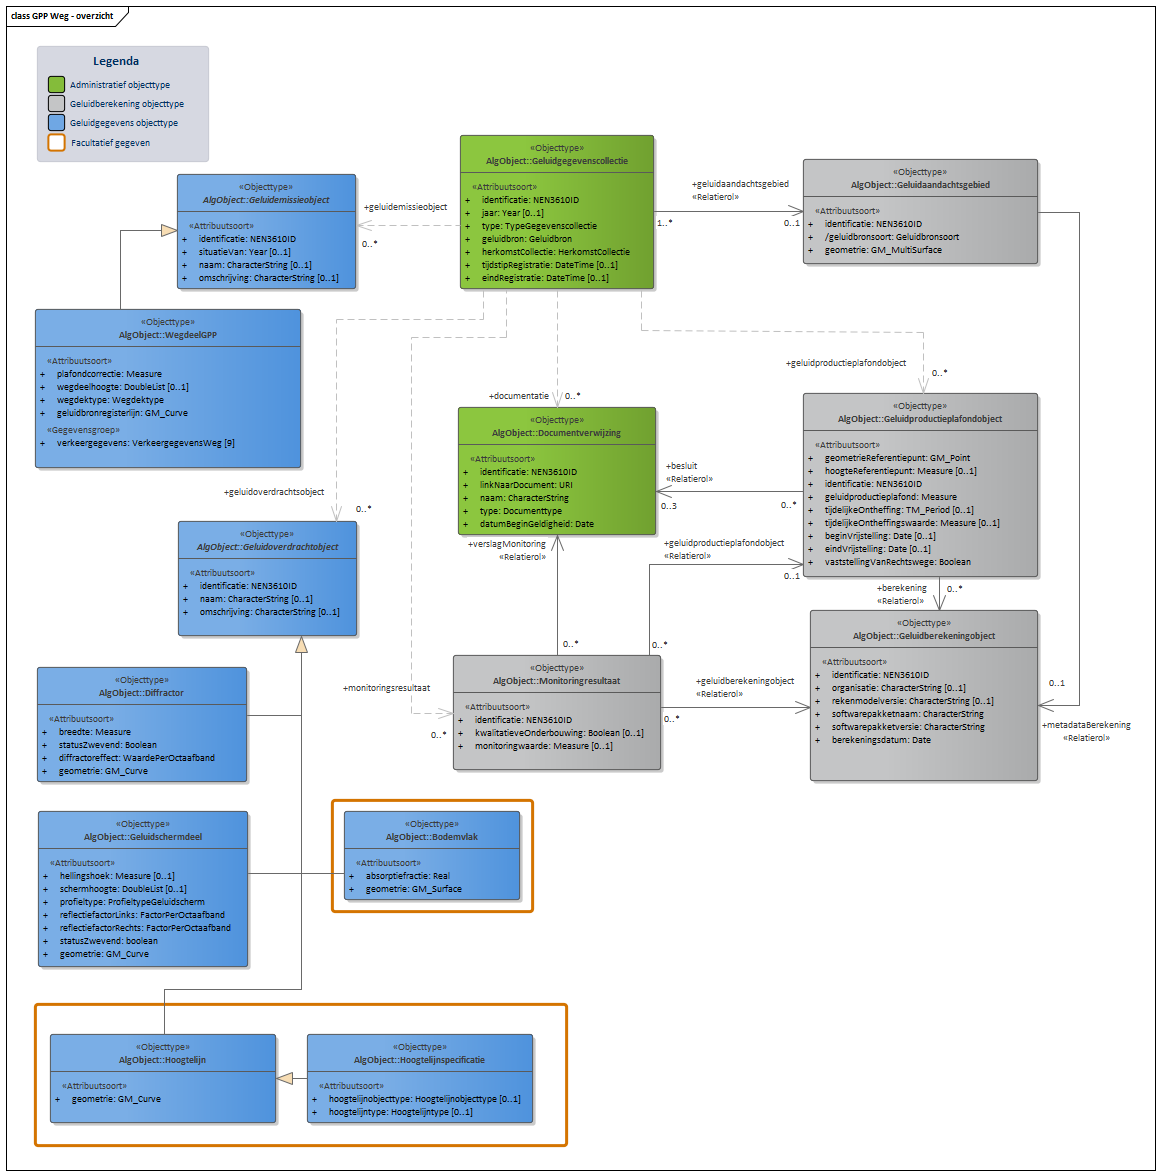
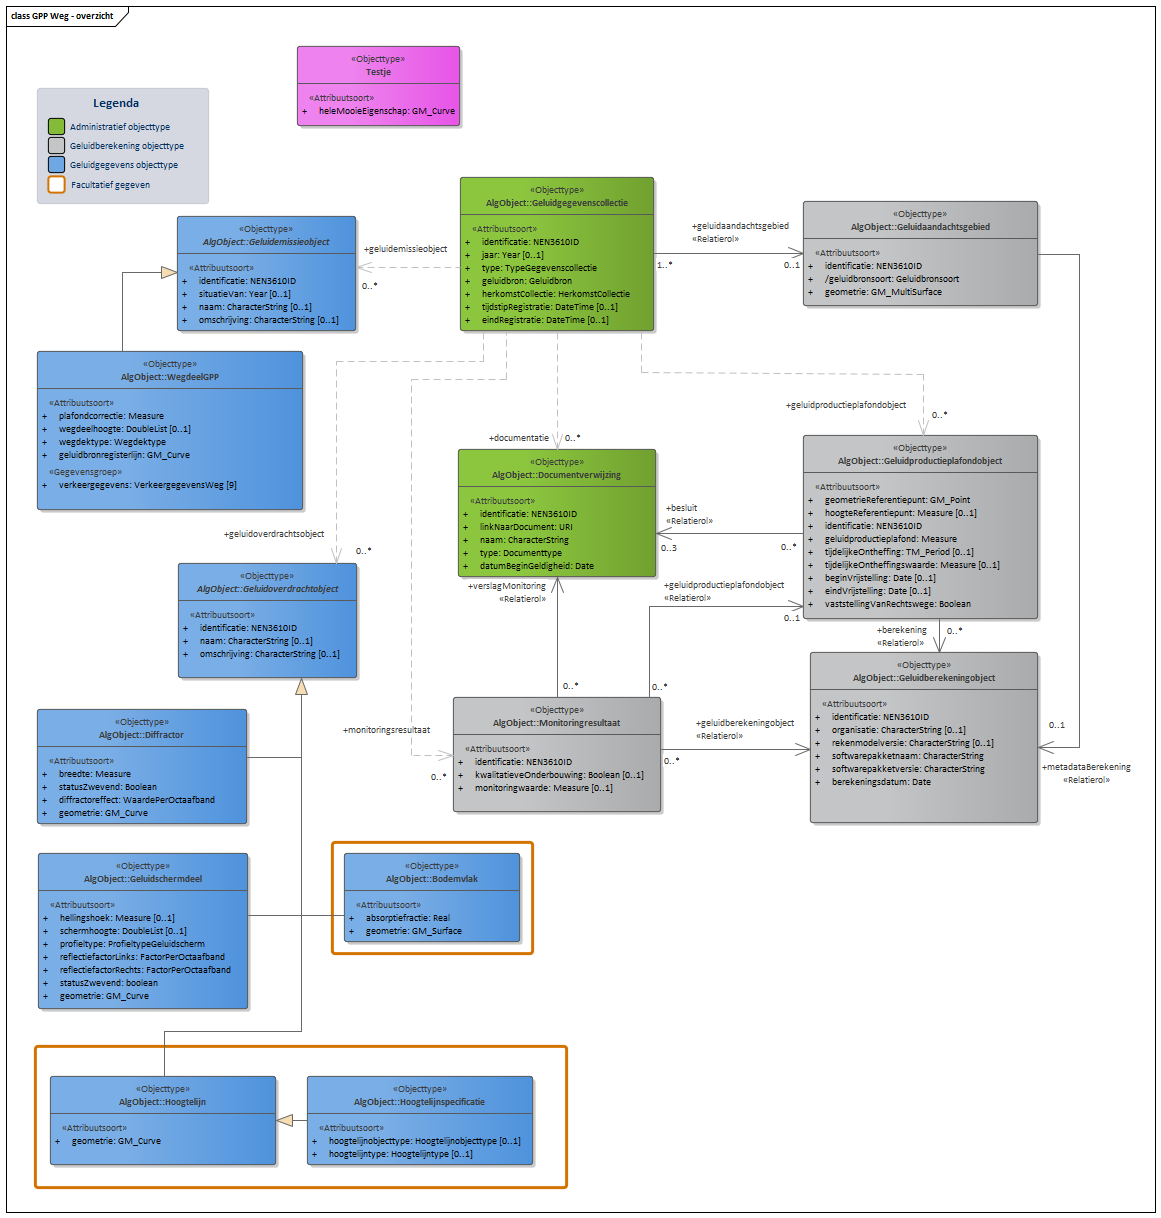
MIMLM-InformatiemodelGeluid-1.0-0-20200421-20210215-173521

diff --git a/data/img-cat.respec.html b/data/img-cat.respec.html
@@ -1,7 +1,7 @@
 
 <section id="cat" class="normative">
    <h2>Gegevensdefinitie</h2>
-   <!--MIMLM-InformatiemodelGeluid-1.0-0-20200421-20201015-155322 imvertor 1.61.3-->
+   <!--MIMLM-InformatiemodelGeluid-1.0-0-20200421-20210215-173521 imvertor 1.61.3-->
    <section id="EAID_66AE8FA2_74FC_4d4d_B2B2_249C8D6A651F">
       <h3>Diagram   Basismodel - overzicht</h3>
       <div class="imageinfo overview"><img src="data/Images/EAID_66AE8FA2_74FC_4d4d_B2B2_249C8D6A651F.png" usemap="#imagemap-EAID_66AE8FA2_74FC_4d4d_B2B2_249C8D6A651F" alt="Diagram Het Basismodel vormt de samenhang tussen alle domeinen van het IMGeluid. Alle objecttypen en relaties uit het IMGeluid komen samen in een Geluidgegevenscollectie.&#xA;Binnen het IMGeluid worden geluidbrongegevens die gebruikt worden voor GPP en BGE berekeningen, gemodelleerd als een Geluidemissie of Geluidoverdrachtobject. De resultaten van GPP of BGE berekeningen worden opgeslagen in een Geluidgegevenscollectie. De onderliggende juridische vastleggingen, vaststellingen, of monitoringsverslagen van deze omgevings- of monitoringswaarden, worden ook opgeslagen in dezelfde Geluidgegevenscollectie.&#xA;Per geluidbron per toepassing kan er een Geluidgegevenscollectie bestaan. Deze kan geassocieerd worden met maximaal 1 Geluidaandachtsgebied. Wanneer geluidgegevens met betrekking tot cumulatieberekeningen worden aangeleverd, bevat een Geluidgegevenscollectie geen Geluidaandachtsgebied.&#xA;&#xA;&#xA;Klik met de rechtermuisknop op het diagram om de afbeelding op volledige grote in een nieuw tabblad te openen."><map name="imagemap-EAID_66AE8FA2_74FC_4d4d_B2B2_249C8D6A651F"><area shape="rect" alt="Monitoringresultaat" coords="525,638,740,760" href="#graph_EAID_BA00B77B_D408_4590_8185_CE59E5838F1E"><area shape="rect" alt="Basisgeluidemissieobject" coords="75,638,341,760" href="#graph_EAID_9AD15457_4880_42e5_8C72_4E5EFAC91B15"><area shape="rect" alt="Geluidproductieplafondobject" coords="908,638,1166,821" href="#graph_EAID_237408F8_8CE9_4828_B8FB_1A5B8C917622"><area shape="rect" alt="Geluidberekeningobject" coords="517,873,772,1044" href="#graph_EAID_97ED59FE_9FCA_49a6_8F07_214E48000B76"><area shape="rect" alt="Documentverwijzing" coords="525,421,739,549" href="#graph_EAID_7E137496_1028_4af5_9367_569358A2167B"><area shape="rect" alt="Geluidaandachtsgebied" coords="947,194,1127,296" href="#graph_EAID_B06128AC_518C_4e26_88E5_14ED5A050A19"><area shape="rect" alt="Geluidgegevenscollectie" coords="476,168,788,322" href="#graph_EAID_313C5AF9_49B8_4860_9E65_DE7C70084864"><area shape="rect" alt="Geluidemissieobject" coords="82,179,334,297" href="#graph_EAID_361C96BA_A638_494e_80BA_590ED481A81B"><area shape="rect" alt="Geluidoverdrachtobject" coords="82,366,334,484" href="#graph_EAID_2FEA326B_B7E7_48a4_B50F_00CCB2694677"></map><p><b>Basismodel - overzicht</b> — Het Basismodel vormt de samenhang tussen alle domeinen van het IMGeluid. Alle objecttypen
@@ -47,7 +47,7 @@
    </section>
    <section id="EAID_82B8575E_C02C_4e96_9E78_ABCC68855A02">
       <h3>Diagram   GPP Weg - overzicht</h3>
-      <div class="imageinfo overview"><img src="data/Images/EAID_82B8575E_C02C_4e96_9E78_ABCC68855A02.png" usemap="#imagemap-EAID_82B8575E_C02C_4e96_9E78_ABCC68855A02" alt="Diagram In domeinmodel GPP Weg staan objecttypen en relaties die relevant zijn voor geluidbronbeheersing van wegen waarvoor de geluidproductieplafond regeling geldt; en die nodig zijn voor akoestisch onderzoek binnen het geluidaandachtsgebied van wegen.&#xA;Geluidbronnen binnen GPP Weg worden opgeslagen als lijnbron conform het object WegdeelGPP. &#xA;Voor ieder Geluidproductieplafondobject langs een Provinciale weg of Rijksweg, valt te herleiden op welke geluidberekening de geluidproductieplafondwaarde gebaseerd is. Deze informatie wordt bijgehouden conform het Geluidberekeningobject.&#xA;Ook valt er te herleiden welke geluidbrongegevens gebruikt zijn bij een geluidberekening. Deze geluidbrongegevens zijn samen met het Geluidberekeningsobject terug te vinden in een  Geluidgegevenscollectie in de vorm van gespecialiseerde geluidemissie- en geluidoverdrachtsobjecten.&#xA;&#xA;Klik met de rechtermuisknop op het diagram om de afbeelding op volledige grote in een nieuw tabblad te openen"><map name="imagemap-EAID_82B8575E_C02C_4e96_9E78_ABCC68855A02"><area shape="rect" alt="Hoogtelijnspecificatie" coords="307,1034,533,1123" href="#graph_EAID_B01AA864_A542_404a_908D_E23998395B87"><area shape="rect" alt="Monitoringresultaat" coords="453,655,661,770" href="#graph_EAID_BA00B77B_D408_4590_8185_CE59E5838F1E"><area shape="rect" alt="Geluidgegevenscollectie" coords="460,135,654,289" href="#graph_EAID_313C5AF9_49B8_4860_9E65_DE7C70084864"><area shape="rect" alt="Geluidemissieobject" coords="177,174,356,289" href="#graph_EAID_361C96BA_A638_494e_80BA_590ED481A81B"><area shape="rect" alt="Geluidoverdrachtobject" coords="178,521,357,636" href="#graph_EAID_2FEA326B_B7E7_48a4_B50F_00CCB2694677"><area shape="rect" alt="Diffractor" coords="37,667,247,782" href="#graph_EAID_1B63DB45_6061_48e5_8890_AC0CA30E1454"><area shape="rect" alt="WegdeelGPP" coords="35,309,301,468" href="#graph_EAID_955703EE_254E_4d46_89C5_37D46AEADA8B"><area shape="rect" alt="Bodemvlak" coords="344,811,520,900" href="#graph_EAID_902B9218_E1B1_4512_B52A_F8DADD1DB990"><area shape="rect" alt="Geluidschermdeel" coords="38,811,248,967" href="#graph_EAID_BC342A75_1053_4086_9B42_321F22E3FA82"><area shape="rect" alt="Hoogtelijn" coords="50,1034,276,1123" href="#graph_EAID_CE3003A0_5F16_4630_B2A6_519B33439135"><area shape="rect" alt="Geluidberekeningobject" coords="810,610,1038,781" href="#graph_EAID_97ED59FE_9FCA_49a6_8F07_214E48000B76"><area shape="rect" alt="Documentverwijzing" coords="458,407,656,535" href="#graph_EAID_7E137496_1028_4af5_9367_569358A2167B"><area shape="rect" alt="Geluidaandachtsgebied" coords="803,159,1038,264" href="#graph_EAID_B06128AC_518C_4e26_88E5_14ED5A050A19"><area shape="rect" alt="Geluidproductieplafondobject" coords="803,393,1038,577" href="#graph_EAID_237408F8_8CE9_4828_B8FB_1A5B8C917622"></map><p><b>GPP Weg - overzicht</b> — In domeinmodel GPP Weg staan objecttypen en relaties die relevant zijn voor geluidbronbeheersing
+      <div class="imageinfo overview"><img src="data/Images/EAID_82B8575E_C02C_4e96_9E78_ABCC68855A02.png" usemap="#imagemap-EAID_82B8575E_C02C_4e96_9E78_ABCC68855A02" alt="Diagram In domeinmodel GPP Weg staan objecttypen en relaties die relevant zijn voor geluidbronbeheersing van wegen waarvoor de geluidproductieplafond regeling geldt; en die nodig zijn voor akoestisch onderzoek binnen het geluidaandachtsgebied van wegen.&#xA;Geluidbronnen binnen GPP Weg worden opgeslagen als lijnbron conform het object WegdeelGPP. &#xA;Voor ieder Geluidproductieplafondobject langs een Provinciale weg of Rijksweg, valt te herleiden op welke geluidberekening de geluidproductieplafondwaarde gebaseerd is. Deze informatie wordt bijgehouden conform het Geluidberekeningobject.&#xA;Ook valt er te herleiden welke geluidbrongegevens gebruikt zijn bij een geluidberekening. Deze geluidbrongegevens zijn samen met het Geluidberekeningsobject terug te vinden in een  Geluidgegevenscollectie in de vorm van gespecialiseerde geluidemissie- en geluidoverdrachtsobjecten.&#xA;&#xA;Klik met de rechtermuisknop op het diagram om de afbeelding op volledige grote in een nieuw tabblad te openen"><map name="imagemap-EAID_82B8575E_C02C_4e96_9E78_ABCC68855A02"><area shape="rect" alt="Testje" coords="297,46,460,126" href="#graph_EAID_38381D6E_D8E6_4f78_B763_0B45A516402A"><area shape="rect" alt="Hoogtelijnspecificatie" coords="307,1076,533,1165" href="#graph_EAID_B01AA864_A542_404a_908D_E23998395B87"><area shape="rect" alt="Monitoringresultaat" coords="453,697,661,812" href="#graph_EAID_BA00B77B_D408_4590_8185_CE59E5838F1E"><area shape="rect" alt="Geluidgegevenscollectie" coords="460,177,654,331" href="#graph_EAID_313C5AF9_49B8_4860_9E65_DE7C70084864"><area shape="rect" alt="Geluidemissieobject" coords="177,216,356,331" href="#graph_EAID_361C96BA_A638_494e_80BA_590ED481A81B"><area shape="rect" alt="Geluidoverdrachtobject" coords="178,563,357,678" href="#graph_EAID_2FEA326B_B7E7_48a4_B50F_00CCB2694677"><area shape="rect" alt="Diffractor" coords="37,709,247,824" href="#graph_EAID_1B63DB45_6061_48e5_8890_AC0CA30E1454"><area shape="rect" alt="WegdeelGPP" coords="37,351,303,510" href="#graph_EAID_955703EE_254E_4d46_89C5_37D46AEADA8B"><area shape="rect" alt="Bodemvlak" coords="344,853,520,942" href="#graph_EAID_902B9218_E1B1_4512_B52A_F8DADD1DB990"><area shape="rect" alt="Geluidschermdeel" coords="38,853,248,1009" href="#graph_EAID_BC342A75_1053_4086_9B42_321F22E3FA82"><area shape="rect" alt="Hoogtelijn" coords="50,1076,276,1165" href="#graph_EAID_CE3003A0_5F16_4630_B2A6_519B33439135"><area shape="rect" alt="Geluidberekeningobject" coords="810,652,1038,823" href="#graph_EAID_97ED59FE_9FCA_49a6_8F07_214E48000B76"><area shape="rect" alt="Documentverwijzing" coords="458,449,656,577" href="#graph_EAID_7E137496_1028_4af5_9367_569358A2167B"><area shape="rect" alt="Geluidaandachtsgebied" coords="803,201,1038,306" href="#graph_EAID_B06128AC_518C_4e26_88E5_14ED5A050A19"><area shape="rect" alt="Geluidproductieplafondobject" coords="803,435,1038,619" href="#graph_EAID_237408F8_8CE9_4828_B8FB_1A5B8C917622"></map><p><b>GPP Weg - overzicht</b> — In domeinmodel GPP Weg staan objecttypen en relaties die relevant zijn voor geluidbronbeheersing
             van wegen waarvoor de geluidproductieplafond regeling geldt; en die nodig zijn voor
             akoestisch onderzoek binnen het geluidaandachtsgebied van wegen.
             Geluidbronnen binnen GPP Weg worden opgeslagen als lijnbron conform het object WegdeelGPP.
@@ -119,6 +119,67 @@
    </section>
    <section id="">
       <h3>Objecttypen   </h3>
+      <a class="anchor" id="graph_EAID_38381D6E_D8E6_4f78_B763_0B45A516402A"></a><a class="anchor" id="global_class_IMGeluidAlgemeen_Testje"></a><section id="global_class_IMGeluidAlgemeen_Testje">
+         <h4>   Testje</h4>
+         
+         <table style="width: 100%;">
+            <colgroup style="width: 30%;"></colgroup>
+            <colgroup style="width: 70%;"></colgroup>
+            <tbody>
+               <tr>
+                  <th>Naam</th>
+                  <td>Testje</td>
+               </tr>
+               <tr>
+                  <th>Herkomst</th>
+                  <td>IMGeluid</td>
+               </tr>
+               <tr>
+                  <th>Definitie</th>
+                  <td>
+                     
+                     <p>Dit is een testobject voor Azar.</p>
+                     </td>
+               </tr>
+               <tr>
+                  <th>Herkomst definitie</th>
+                  <td>IMGeluid</td>
+               </tr>
+               <tr>
+                  <th>Toelichting</th>
+                  <td>Een inhoudelijke toelichting op de toepassing van het informatie-element.</td>
+               </tr>
+            </tbody>
+         </table>
+         
+         <h5>Overzicht attributen  </h5>
+         
+         <table style="width: 100%;">
+            <colgroup style="width: 30%;"></colgroup>
+            <colgroup style="width: 50%;"></colgroup>
+            <colgroup style="width: 10%;"></colgroup>
+            <colgroup style="width: 10%;"></colgroup>
+            <tbody>
+               <tr>
+                  <th>Attribuutnaam</th>
+                  <th>Definitie</th>
+                  <th>Type</th>
+                  <th>Kardinaliteit</th>
+               </tr>
+               <tr>
+                  <td>
+                     <a class="link" href="#detail_attribute_IMGeluidAlgemeen_Testje_heleMooieEigenschap">heleMooieEigenschap</a>
+                     </td>
+                  <td></td>
+                  <td>
+                     GM_Curve
+                     </td>
+                  <td>1</td>
+               </tr>
+            </tbody>
+         </table>
+         
+         </section>
       <a class="anchor" id="graph_EAID_313C5AF9_49B8_4860_9E65_DE7C70084864"></a><a class="anchor" id="global_class_IMGeluidAlgemeen_Geluidgegevenscollectie"></a><section id="global_class_IMGeluidAlgemeen_Geluidgegevenscollectie">
          <h4>   Geluidgegevenscollectie</h4>
          
@@ -4896,7 +4957,7 @@
                </tr>
                <tr>
                   <th>Herkomst definitie</th>
-                  <td>IMGeluid</td>
+                  <td>Reken- en meetvoorschrift geluid, 2012;</td>
                </tr>
                <tr>
                   <th>Regels</th>
@@ -7302,6 +7363,60 @@
       
       <section id="">
          <h4>Objecttype details  </h4>
+         <a class="anchor" id="detail_class_IMGeluidAlgemeen_Testje"></a><section id="detail_class_IMGeluidAlgemeen_Testje">
+            <h5>   Testje</h5>
+            <a class="anchor" id="detail_attribute_IMGeluidAlgemeen_Testje_heleMooieEigenschap"></a><section id="detail_attribute_IMGeluidAlgemeen_Testje_heleMooieEigenschap">
+               <h6>  <a href="#global_class_IMGeluidAlgemeen_Testje">Testje</a> heleMooieEigenschap</h6>
+               
+               <table style="width: 100%;">
+                  <colgroup style="width: 30%;"></colgroup>
+                  <colgroup style="width: 70%;"></colgroup>
+                  <tbody>
+                     <tr>
+                        <th>Naam</th>
+                        <td>heleMooieEigenschap</td>
+                     </tr>
+                     <tr>
+                        <th>Herkomst</th>
+                        <td>IMGeluid</td>
+                     </tr>
+                     <tr>
+                        <th>Herkomst definitie</th>
+                        <td>IMGeluid</td>
+                     </tr>
+                     <tr>
+                        <th>Toelichting</th>
+                        <td>Een inhoudelijke toelichting op de toepassing van het informatie-element.</td>
+                     </tr>
+                     <tr>
+                        <th>Mogelijk geen waarde</th>
+                        <td>Nee</td>
+                     </tr>
+                     <tr>
+                        <th>Indicatie formele historie</th>
+                        <td>Nee</td>
+                     </tr>
+                     <tr>
+                        <th>Kardinaliteit</th>
+                        <td>1</td>
+                     </tr>
+                     <tr>
+                        <th>Indicatie authentiek</th>
+                        <td>Overig</td>
+                     </tr>
+                     <tr>
+                        <th>Patroon</th>
+                        <td>De verzameling van waarden die gegevens van dit attribuutsoort kunnen hebben, dat
+                           wil zeggen het waardenbereik, uitgedrukt in een specifieke structuur.</td>
+                     </tr>
+                     <tr>
+                        <th>Type</th>
+                        <td>GM_Curve</td>
+                     </tr>
+                  </tbody>
+               </table>
+               </section>
+            </section>
          <a class="anchor" id="detail_class_IMGeluidAlgemeen_Geluidgegevenscollectie"></a><section id="detail_class_IMGeluidAlgemeen_Geluidgegevenscollectie">
             <h5>   Geluidgegevenscollectie</h5>
             <a class="anchor" id="detail_attribute_IMGeluidAlgemeen_Geluidgegevenscollectie_identificatie"></a><section id="detail_attribute_IMGeluidAlgemeen_Geluidgegevenscollectie_identificatie">
@@ -20899,7 +21014,7 @@
 </section>
 <section id="lis" class="normative">
    <h2>Inhoud van waardenlijsten</h2>
-   <!--MIMLM-InformatiemodelGeluid-1.0-0-20200421-20201015-155322 imvertor 1.61.3--><a class="anchor" id="graph_EAID_32771007_4395_44a9_9388_99F79758D88D"></a><a class="anchor" id="detail_class_IMGeluidAlgemeen_Wegdektype"></a><section id="detail_class_IMGeluidAlgemeen_Wegdektype">
+   <!--MIMLM-InformatiemodelGeluid-1.0-0-20200421-20210215-173521 imvertor 1.61.3--><a class="anchor" id="graph_EAID_32771007_4395_44a9_9388_99F79758D88D"></a><a class="anchor" id="detail_class_IMGeluidAlgemeen_Wegdektype"></a><section id="detail_class_IMGeluidAlgemeen_Wegdektype">
       <h3>  Wegdektype</h3>
       
       <table style="width: 100%;" class="list">
